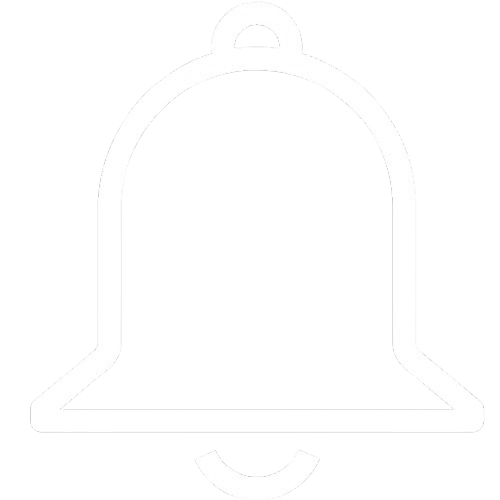
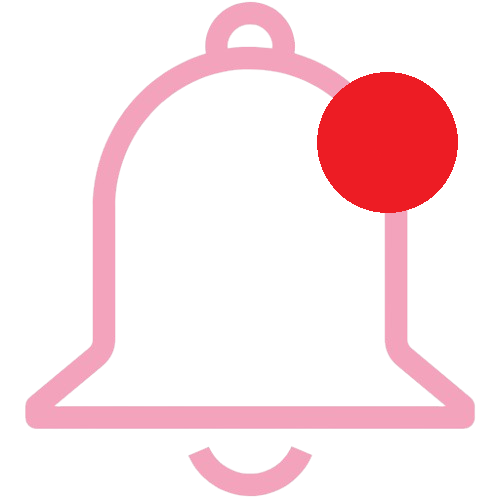
add bank details on payment page and fix the footer

Changed region(s): [[0.03, 0.0, 0.96, 0.87], [0.36, 0.9, 0.63, 1.0]]

diff --git a/ViewPayment.css b/ViewPayment.css
@@ -98,10 +98,15 @@ footer
     margin-top: 40px;
 }
 
-h2 
+h2
 {
     margin-top: 30px;
     color: #000000;
+    margin-left: 25px;
+    margin-bottom: 10px;
+}
+
+p{
     margin-left: 25px;
     margin-bottom: 10px;
 }

diff --git a/base.css b/base.css
@@ -76,7 +76,7 @@ nav a:hover, nav a.current{
 .content-container{
     background-color: white;
     padding: 20px 30px;
-    
+    min-height: calc(100vh - 360px);
 }
 
 footer{

diff --git a/ViewPayment-worker.php b/ViewPayment-worker.php
@@ -108,7 +108,10 @@
             <hr class="divider">
 
         <?php
-            $sql_fb = "SELECT star, feedback_message, payment_proof FROM gig_application WHERE GIG_ID = '$gig_id'";
+            $sql_fb = "SELECT ga.star, ga.feedback_message, ga.payment_proof, u.name AS worker_name, u.bank_account, u.username
+                       FROM gig_application ga
+                       LEFT JOIN user u ON ga.USER_ID = u.USER_ID
+                       WHERE ga.GIG_ID = '$gig_id'";
             $result_fb = $conn->query($sql_fb);
             $row_fb = $result_fb->fetch_assoc();
             $payment_files = $row_fb['payment_proof'] ?? '';
@@ -134,6 +137,9 @@
             </div>
 
             <h2>Upload Payment Proof</h2>
+
+            <p><?php echo htmlspecialchars($row_fb['username']); ?>'s Bank Account Details: 
+            <?php echo htmlspecialchars($row_fb['bank_account'] ?? 'Not Provided'); ?> (<?php echo htmlspecialchars($row_fb['worker_name']); ?>)</p>
 
             <div class="file-upload-container">
                 <input type="file" name="paymentProof" accept="image/*,.pdf">

diff --git a/noti.php b/noti.php
@@ -133,7 +133,7 @@
 
     ?>
 
-    <div class="admin-comtainer">
+    <div class="content-container">
         <div class="notifications-wrapper">
             <div class="notifications-header">
                 <h1 class="notications-title">Notifications</h1>